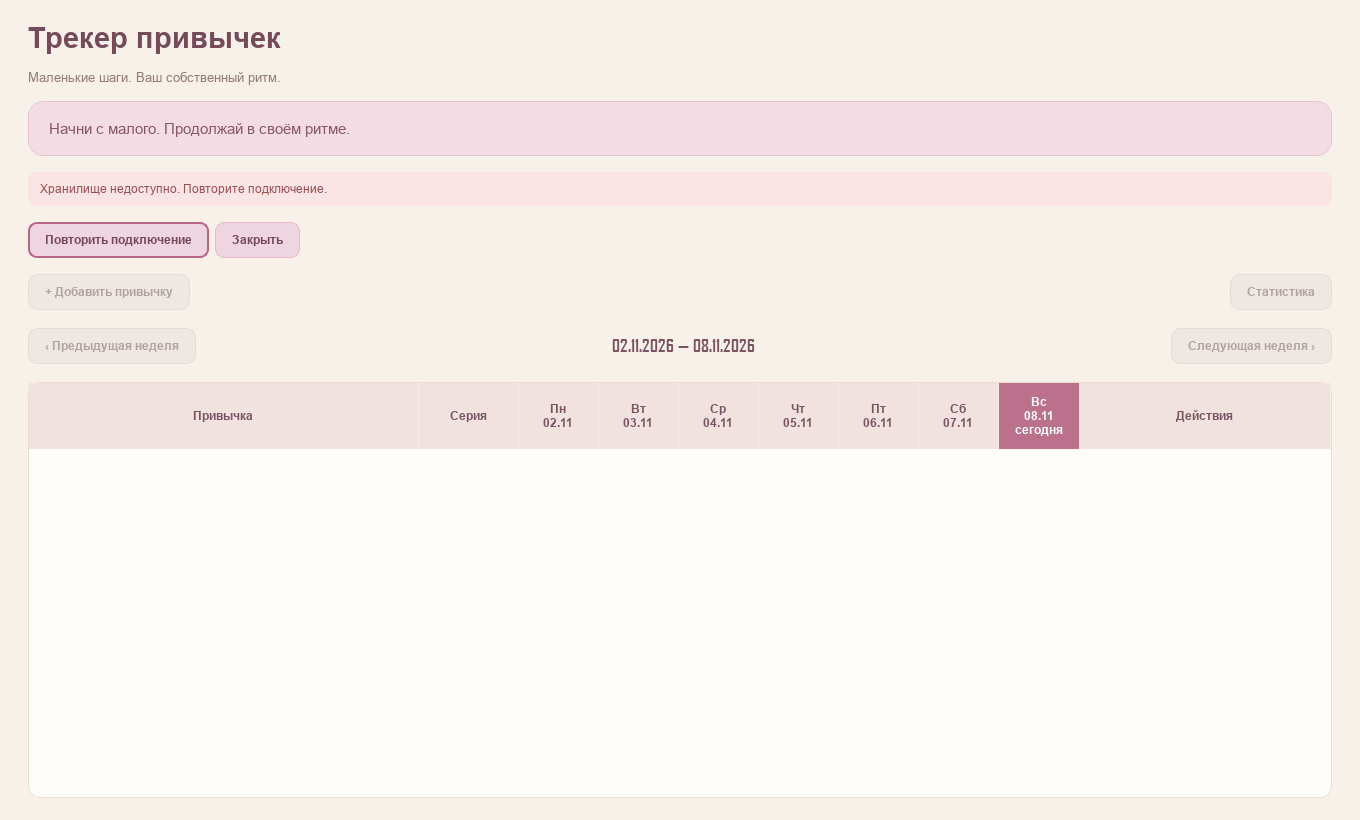
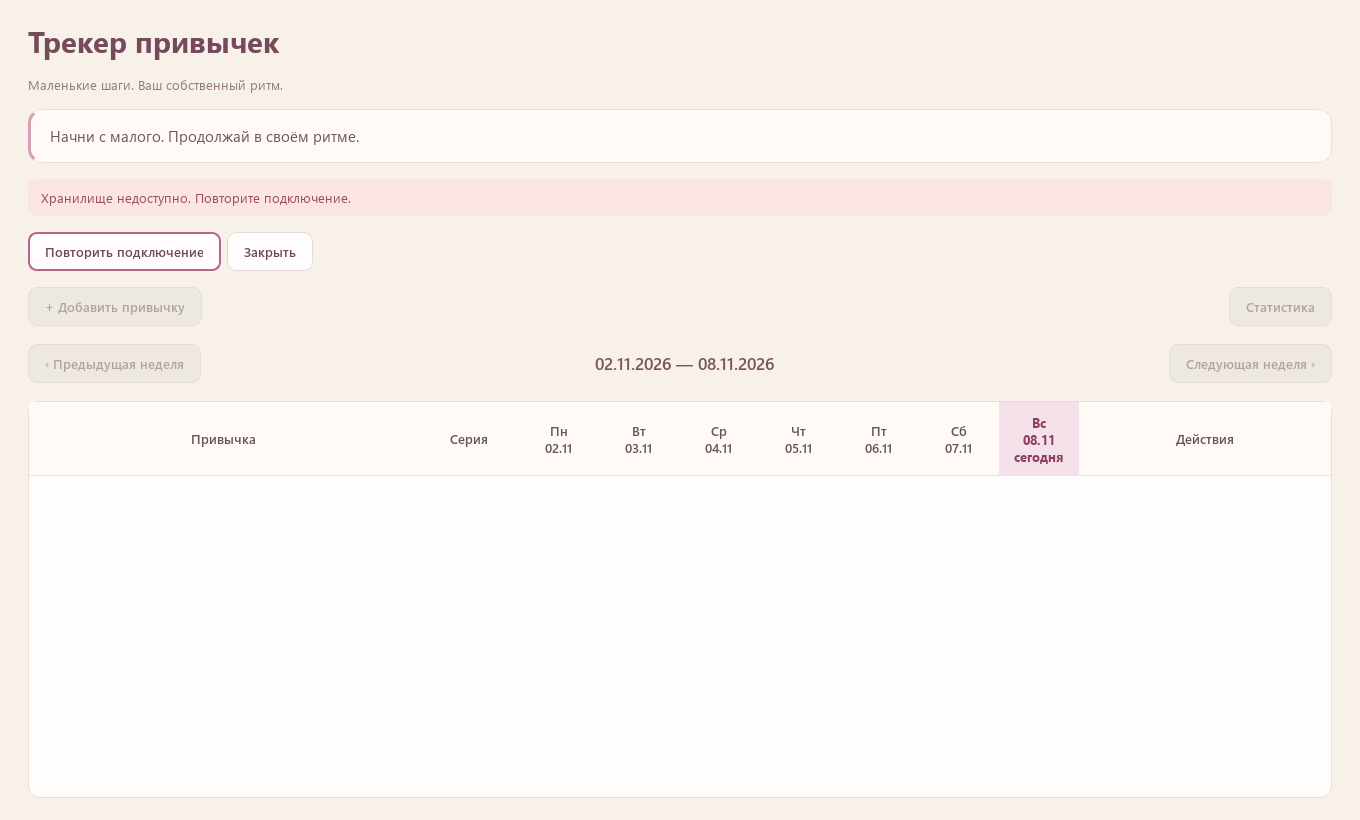
style: polish chart labels and verify visual redesign at all scales

diff --git a/src/CompletionChart.cpp b/src/CompletionChart.cpp
@@ -1,5 +1,7 @@
 #include "CompletionChart.h"
 #include <QPainter>
+#include <QFontMetricsF>
+#include <QtMath>
 
 CompletionChart::CompletionChart(const QString &chartTitle, QWidget *parent)
     : QWidget(parent), title(chartTitle)
@@ -18,43 +20,67 @@ void CompletionChart::paintEvent(QPaintEvent *)
 {
     QPainter painter(this);
     painter.setRenderHint(QPainter::Antialiasing);
-    painter.setPen(QColor(QStringLiteral("#eaded7")));
-    painter.setBrush(QColor(QStringLiteral("#fffdfa")));
+    painter.setPen(QColor(QStringLiteral("#e8ded8")));
+    painter.setBrush(QColor(QStringLiteral("#fffdfb")));
     painter.drawRoundedRect(rect().adjusted(1, 1, -1, -1), 16, 16);
-    painter.setPen(QColor(QStringLiteral("#574443")));
+    painter.setPen(QColor(QStringLiteral("#463d42")));
     auto heading = font();
-    heading.setBold(true);
+    heading.setPixelSize(17);
+    heading.setWeight(QFont::DemiBold);
     painter.setFont(heading);
-    painter.drawText(QRect(20, 13, width() - 40, 27), title);
-    heading.setBold(false);
-    painter.setFont(heading);
+    const auto headingText = title.section(QChar(0x00b7), 0, 0).trimmed();
+    painter.drawText(QRect(20, 12, width() - 40, 25), Qt::AlignLeft | Qt::AlignVCenter, headingText);
+    auto axis = font();
+    axis.setPixelSize(12);
+    painter.setFont(axis);
+    painter.setPen(QColor(QStringLiteral("#776870")));
+    painter.drawText(QRect(20, 39, width() - 40, 17), Qt::AlignLeft | Qt::AlignVCenter,
+                     title.section(QChar(0x00b7), 1).trimmed());
     if (bars.isEmpty()) return;
     int maximum = 1;
     for (const auto &bar : bars) maximum = qMax(maximum, bar.count);
     const int step = qMax(1, (maximum + 4) / 5);
     maximum = ((maximum + step - 1) / step) * step;
-    const QRectF area(48, 55, width() - 70, height() - 118);
+    const QRectF area(50, 78, width() - 74, height() - 118);
     for (int value = 0; value <= maximum; value += step) {
         const auto y = area.bottom() - area.height() * value / maximum;
-        painter.setPen(QColor(QStringLiteral("#eee5df")));
+        painter.setPen(QColor(QStringLiteral("#eee6e0")));
         painter.drawLine(QPointF(area.left(), y), QPointF(area.right(), y));
-        painter.setPen(QColor(QStringLiteral("#8a7771")));
-        painter.drawText(QRectF(5, y - 10, 33, 20), Qt::AlignRight | Qt::AlignVCenter, QString::number(value));
+        if (value == 0 || value == maximum || area.height() * step / maximum >= 22) {
+            painter.setPen(QColor(QStringLiteral("#75676e")));
+            painter.drawText(QRectF(5, y - 9, 35, 18), Qt::AlignRight | Qt::AlignVCenter, QString::number(value));
+        }
     }
     const qreal slot = area.width() / bars.size();
+    const QFontMetricsF metrics(axis);
     for (int i = 0; i < bars.size(); ++i) {
         const auto x = area.left() + slot * i;
         const auto height = area.height() * bars[i].count / maximum;
         painter.setPen(Qt::NoPen);
-        painter.setBrush(QColor(i + 1 == bars.size() ? QStringLiteral("#bd617e") : QStringLiteral("#e7aec1")));
+        painter.setBrush(QColor(i + 1 == bars.size() ? QStringLiteral("#a75173") : QStringLiteral("#e8b9cb")));
         painter.drawRoundedRect(QRectF(x + slot * .18, area.bottom() - qMax(2.0, height), slot * .64, qMax(2.0, height)), 3, 3);
-        if (bars.size() <= 7 || i % 3 == 0 || i + 1 == bars.size()) {
-            painter.save();
-            painter.setPen(QColor(QStringLiteral("#8a7771")));
-            painter.translate(x + slot * .5, area.bottom() + 12);
-            painter.rotate(45);
-            painter.drawText(QRectF(0, -8, 64, 18), bars[i].day.toString(QStringLiteral("dd.MM")));
-            painter.restore();
+        const auto valueText = QString::number(bars[i].count);
+        if (area.height() >= 72 && (bars.size() <= 7 ||
+            (bars[i].count > 0 && slot >= metrics.horizontalAdvance(valueText) + 3))) {
+            painter.setPen(QColor(QStringLiteral("#66505d")));
+            painter.drawText(QRectF(x, area.bottom() - height - 21, slot, 18), Qt::AlignCenter, valueText);
         }
+    }
+    const qreal labelWidth = metrics.horizontalAdvance(QStringLiteral("00.00")) + 6;
+    const int every = qMax(1, qCeil((labelWidth + 12) / slot));
+    const qreal lastCenter = area.left() + slot * (bars.size() - .5);
+    const qreal lastLeft = qBound(14.0, lastCenter - labelWidth / 2, width() - labelWidth - 14);
+    qreal previousRight = -1000;
+    for (int i = 0; i < bars.size(); ++i) {
+        const bool last = i + 1 == bars.size();
+        if (!last && i % every != 0) continue;
+        const qreal center = area.left() + slot * (i + .5);
+        const qreal left = qBound(14.0, center - labelWidth / 2, width() - labelWidth - 14);
+        const QRectF label(left, area.bottom() + 10, labelWidth, 18);
+        if (!last && i != 0 && label.right() + 8 > lastLeft) continue;
+        if (label.left() < previousRight + 8) continue;
+        painter.setPen(QColor(QStringLiteral("#75676e")));
+        painter.drawText(label, Qt::AlignCenter, bars[i].day.toString(QStringLiteral("dd.MM")));
+        previousRight = label.right();
     }
 }

diff --git a/src/AppWindow.cpp b/src/AppWindow.cpp
@@ -233,7 +233,9 @@ AppWindow::AppWindow(QSqlDatabase database, std::function<QDate()> dateClock)
     summary->setHorizontalHeaderLabels({QStringLiteral("Привычка"), QStringLiteral("Серия"), QStringLiteral("7 дней"), QStringLiteral("30 дней")});
     summary->setEditTriggers(QAbstractItemView::NoEditTriggers);
     summary->verticalHeader()->hide();
-    summary->horizontalHeader()->setSectionResizeMode(QHeaderView::Stretch);
+    summary->horizontalHeader()->setSectionResizeMode(QHeaderView::Fixed);
+    summary->horizontalHeader()->setSectionResizeMode(0, QHeaderView::Stretch);
+    for (int column = 1; column < 4; ++column) summary->setColumnWidth(column, 140);
     summary->horizontalHeader()->setMinimumHeight(42);
     summary->setMinimumHeight(136);
     summary->setMaximumHeight(240);
@@ -465,6 +467,8 @@ void AppWindow::renderStatistics()
         summary->setItem(row, 1, new QTableWidgetItem(QString::number(values.streak)));
         summary->setItem(row, 2, new QTableWidgetItem(QString::number(values.last7Days)));
         summary->setItem(row, 3, new QTableWidgetItem(QString::number(values.last30Days)));
+        for (int column = 1; column < 4; ++column)
+            summary->item(row, column)->setTextAlignment(Qt::AlignCenter);
     }
 }
 

diff --git a/src/Theme.h b/src/Theme.h
@@ -21,9 +21,9 @@ QPushButton:hover { background: #faedf2; border-color: #c994aa; }
 QPushButton:pressed { background: #f0d7e2; }
 QPushButton:focus { border: 2px solid #b86687; }
 QPushButton:disabled { color: #b2a39f; background: #eee8e2; border-color: #e4dcd5; }
-QPushButton#addHabit { background: #b65e7c; color: #ffffff; border-color: #b65e7c; }
-QPushButton#addHabit:hover { background: #a64d6c; }
-QPushButton#addHabit:disabled { background: #eee8e2; color: #b2a39f; border-color: #e4dcd5; }
+QPushButton#addHabit, QPushButton#saveHabit { background: #b65e7c; color: #ffffff; border-color: #b65e7c; }
+QPushButton#addHabit:hover, QPushButton#saveHabit:hover { background: #a64d6c; }
+QPushButton#addHabit:disabled, QPushButton#saveHabit:disabled { background: #eee8e2; color: #b2a39f; border-color: #e4dcd5; }
 QPushButton[compact="true"] { font-size: 12px; padding: 7px 9px; }
 QPushButton[danger="true"] { background: #fff8f5; color: #a45e6d; border-color: #e8cbd0; }
 QLineEdit { background: #fffdfb; border: 1px solid #dbb9c6; border-radius: 9px; padding: 10px; selection-background-color: #d897af; }
